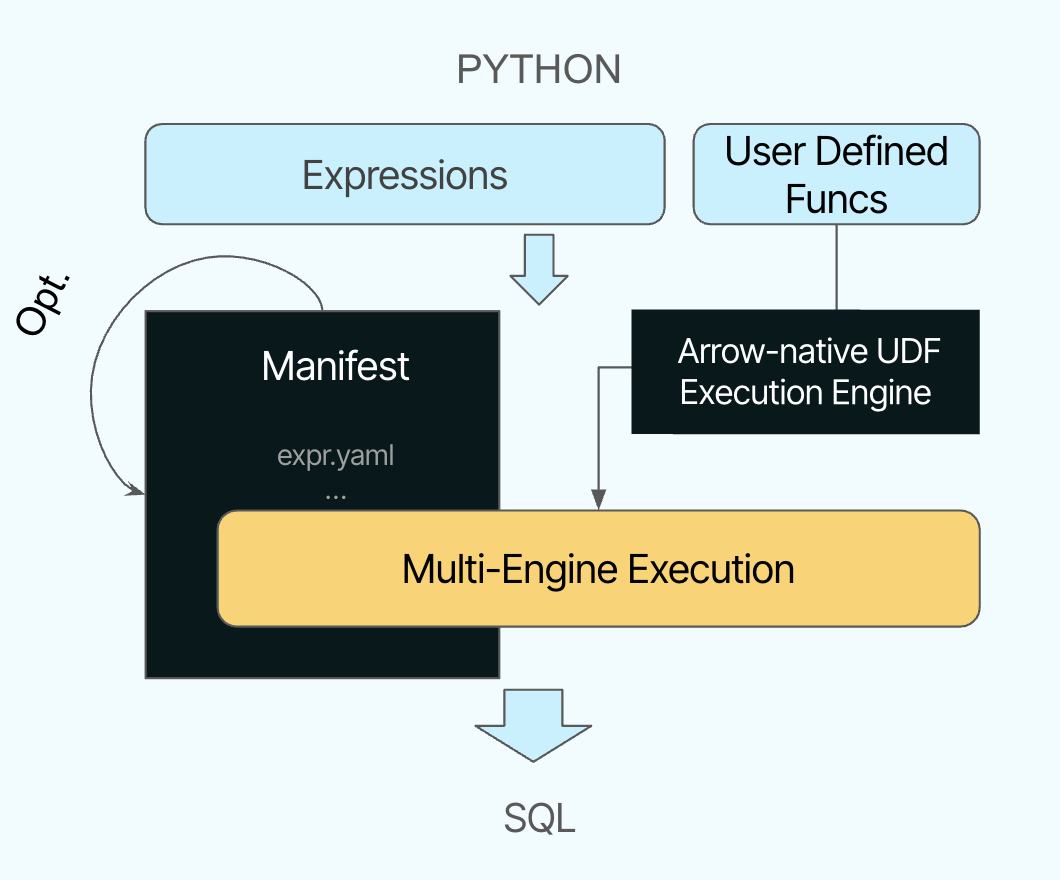
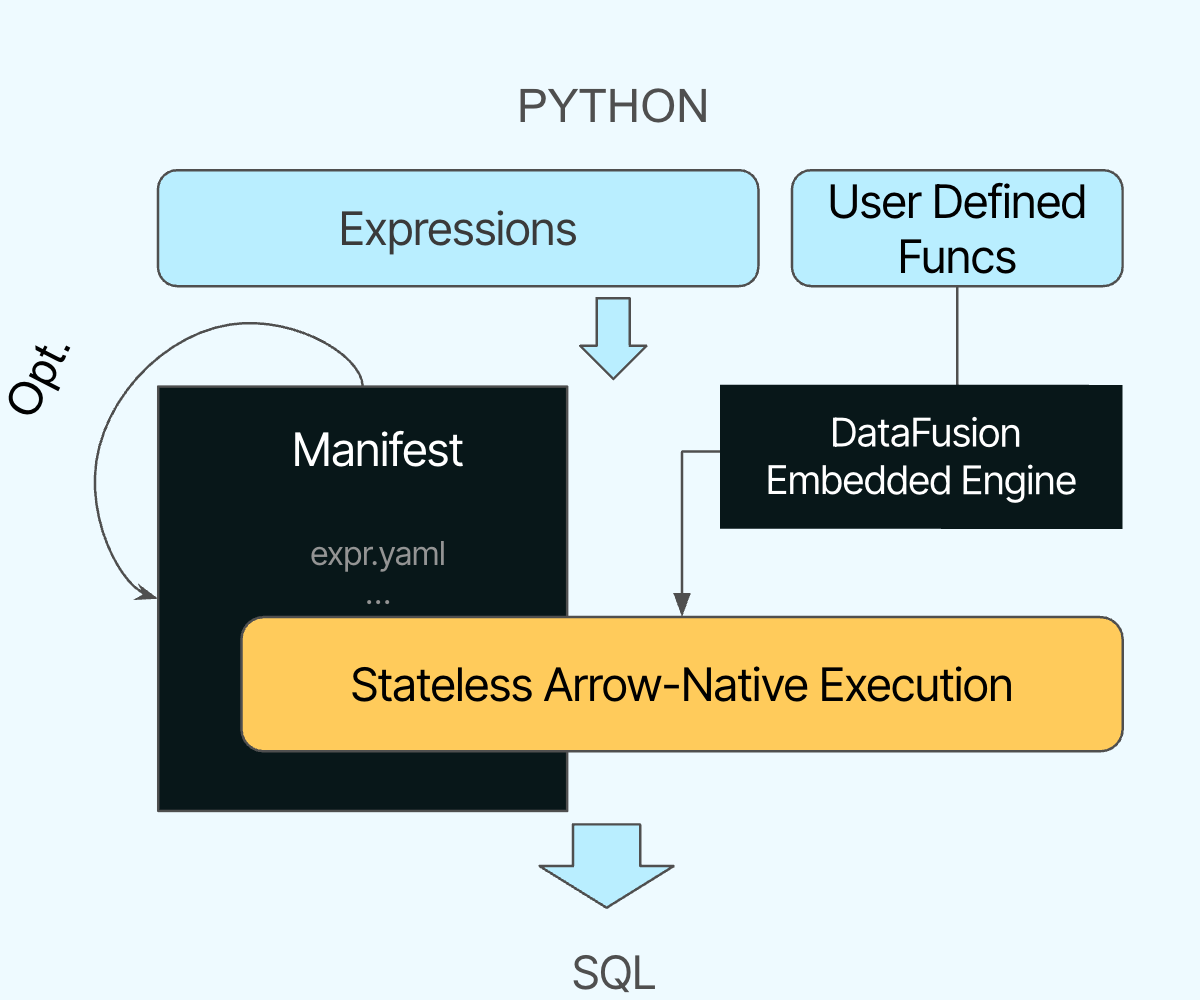
ref

Changed region(s): [[0.0623, 0.0614, 0.934, 1.0], [0.0, 0.3068, 0.0623, 0.4295]]

diff --git a/README.md b/README.md
@@ -7,23 +7,27 @@
 
 </div>
 
-> **Xorq is a multi‑engine batch transformation framework.**
-> It ships a **compute catalog**—versioned expression format (Python/Ibis) you
-> can run across DuckDB, Snowflake, DataFusion, and more.
+> **Xorq is a multi‑engine batch transformation framework built on Ibis,
+> DataFusion and Arrow.**
+> It ships a compute catalog and a multi-engine manifest you can run
+> across DuckDB, Snowflake, DataFusion, and more.
 
 ---
 
-## What Xorq is
+## What Xorq gives you
 
-- 🧠 **Compute catalog:** A registry of declarative transformations as
-  diffable, addressable manifest (`expr.yaml`).
-- 🔁 **Deterministic builds & caching:** Content‑addressed (expr‑hash) naming
-  for repeatable runs and cheap replays/backfills.
-- 🧩 **Portable UDXFs:** User‑Defined (Aggregate) Functions serialized once,
-  reused across engines.
-- 🔬 **Lineage & schema checks:** Column‑level lineage and compile‑time
-  relational integrity.
-- 🤖 **Scikit‑learn integration:** Treat estimators/pipelines as compute—**fit** as an aggregate step, **predict** as a scalar step—parameters are serialized into the catalog for portable batch scoring.
+- 🧭 Multi-engine manifest: A single, typed plan (Ibis graph + UDXF
+contracts + unbound I/O) captured as YAML that compiles to DuckDB, Snowflake,
+DataFusion, etc.
+- 📚 Compute catalog: Versioned registry that stores and
+operates on  manifests (run, cache, diff, serve-unbound).
+- 🔁 Deterministic builds & caching: Content hashes of the plan power
+reproducible runs and cheap replays.
+- 🧩 Portable UDXFs: Schema-in/out functions packaged once via Arrow Flight; reusable across
+engines (embedded DataFusion included for portability/local runs).
+- 🔬 Lineage & schema checks: Column-level lineage and compile-time integrity.
+- 🤖 Scikit-learn integration: fit (aggregate) and predict (scalar) are
+serialized into the manifest for portable batch scoring.
 
 > **Not an orchestrator.** Use Xorq from Airflow, Dagster, Prefect, GitHub
 > Actions, etc.
@@ -37,16 +41,11 @@ pip install xorq[examples]
 xorq init -t penguins
 ```
 
-Then follow the [Quickstart Tutorial](https://docs.xorq.dev/tutorials/getting_started/quickstart) for a full walk-through using the Penguins dataset.
+Then follow the [Quickstart
+Tutorial](https://docs.xorq.dev/tutorials/getting_started/quickstart) for a
+full walk-through using the Penguins dataset.
 
-## Core concepts
-
-- Expression Format: Python expressions captured as YAML (expr.yaml) for reproducible, engine‑portable compute.
-- Deferred reads: Source metadata captured in deferred_reads.yaml.
-- Profiles: Pluggable backends (e.g., DuckDB, Snowflake, DataFusion) selected at run time.
-- UDxFs: User‑Defined Exchange Functions (UDF/UDAF) packaged for cross‑engine reuse.
-
-## Compute Catalog & Manifest
+## From `scikit-learn` to multi-engine manifest
 
 The manifest is a collection of YAML files that captures the expression graph,
 UDxF:
@@ -61,7 +60,11 @@ Xorq makes it easy to bring your scikit-learn Pipeline and automatically
 converts it into a deferred Xorq expression.
 
 ```python
-(train, test) = xo.test_train_split(...)
+import xorq.api as xo
+from xorq.expr.ml.pipeline_lib import Pipeline
+
+
+(train, test) = xo.test_train_splits(...)
 sklearn_pipeline = make_pipeline(...)
 xorq_pipeline = Pipeline.from_instance(sklearn_pipeline)
 # still no work done: deferred fit expression
@@ -89,8 +92,11 @@ predicted:
           flipper_length_mm: ...
           body_mass_g: ...
           species: ...         # target
-
 ```
+The YAML format serializes the Expression graph and all its nodes, including
+UDFs as pickled entries.
+
+## From manifest to catalog
 
 Once an expression is built, we can then catalog it and share across teams.
 
@@ -98,7 +104,7 @@ The compute catalog is a versioned registry of compute manifest. It can be
 stored in Git, S3, GCS, or a database.
 
 ```bash
-❯ xorq catalog add builds/{build-hash} --alias penguin_model
+❯ xorq catalog add builds/{build-hash} --alias penguins-model
 ```
 
 ```
@@ -112,6 +118,33 @@ dbf90860-88b3-4b6c-830a-8518b3296e7c    r1      52f987594254
 You can then run, serve or cache the catalog entry, including unbinding nodes
 that depend on external state (e.g. source tables). This is useful to serve a
 trained pipeline with new data.
+
+### Serve the same expression with new inputs (serve-unbound)
+
+We can unbind an expression by replacing a node in expression graph with the hash:
+
+```bash
+xorq serve-unbound builds/7061dd65ff3c --host localhost --port 8001 --cache-dir penguins_example b2370a29c19df8e1e639c63252dacd0e
+```
+- `builds/7061dd65ff3c`: Your built pipeline directory
+- `--host localhost --port 8001`: Server configuration
+- `--cache-dir penguins_example`: Directory for caching results
+- `b2370a29c19df8e1e639c63252dacd0e`: The specific node hash to serve
+
+To learn more on how to find the node hash, check out the [Serve Unbound](https://docs.xorq.dev/tutorials/getting_started/quickstart#finding-the-node-hash).
+
+### Compose with the served expression:
+
+```python
+import xorq.api as xo
+
+client = xo.flight.connect("localhost", 8001)
+f = client.get_exchange("default") # currently all expressions get the default name
+
+new_expr = expr.pipe(f)
+
+new_expr.execute()
+```
 
 ## How Xorq works
 
